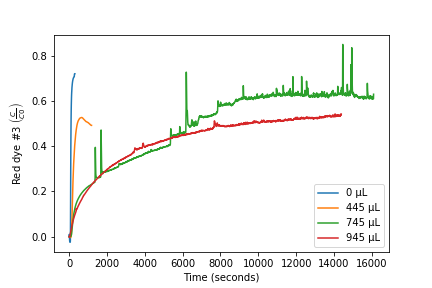
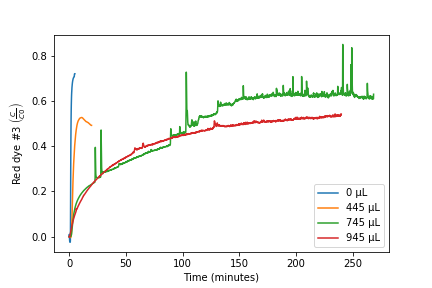
Converted time scale to minutes

Changed region(s): [[0.4815, 0.875, 0.9028, 1.0], [0.2106, 0.875, 0.3611, 0.9375], [0.3912, 0.875, 0.4514, 0.9375]]

diff --git a/Final_Project/Final_Project.md b/Final_Project/Final_Project.md
@@ -17,8 +17,12 @@ A schematic of the experiment can be seen in the figure below.
 2. The sand, coagulant and 100mL of water was added to a beaker for mixing.  
 3. While mixing, pH was monitored.  
 4. A basic solution of 0.5M NaOH was added until a pH of at least 6 was reached (Source: Water Treatment Coag). This was a necessary step because coagulant is largely ineffective in acidic conditions, and the aluminum in coagulant is makes the mixture acidic.  
-5. A small volume of the liquid in the mixture.
-After a few failed attempts at different flow rates, 1.25 mL/s was determined to work for both red dye #40 and red dye #3 enough to yield useful results. Both dyes were run through a sand-only column to obtain a baseline for the experiment. After, the team began testing coagulant. We started with 445 μL, which is equivalent to 22 moles of Aluminum per meter cubed. This concentration was suggested as ideal in “Enhanced Particle Capture through Aluminum Hydroxide Addition to Pores in Sand Media”. We then increased the volumes used to obtain data for comparisons. As you can see, we used both dyes for all volumes except the 1500 microliters of coagulant. This is because we quickly realized that red dye #3 was removed far more effectively by sand and coagulant than red dye #40 was. Where the red dye #40 experiments took minutes or less, the red dye #3 experiments took a few hours. Thus, we figured that the last experiment would not be worth the time.
+5. A small volume of the liquid in the mixture and then the sand portion of the mixture was added to the column. This "wet method" was employed so that there would not be any air pockets in the column.
+6. The initial amount of coagulant used was 445 μL, which is equivalent to 22 moles of Aluminum per meter cubed. This concentration was suggested as ideal in “Enhanced Particle Capture through Aluminum Hydroxide Addition to Pores in Sand Media.”
+7. The amount of coagulant was varied afterward, as can be seen in Table 1. Both dyes were used for all volumes except the 1500 microliters of coagulant. This is because Red Dye #3 was removed far more effectively by sand and coagulant than Red Dye #40 was. Where the red dye #40 experiments took minutes or less, the Red Dye #3 experiments took a few hours. Using 1500 μL of coagulant with Red Dye #3 would have taken too much time, and the stock tank for the solution would have run out.
+8. After a few failed attempts at different flow rates, 1.25 mL/s was determined to work for both red dye #40 and red dye #3 enough to yield useful results.
+9. Both dyes were run through a sand-only column to obtain a baseline for the experiment.
+
 
 ## Results and Discussion  
 ![](https://github.com/klr227/EnvELab/blob/master/Final_Project/Pictures/Red_Dye_3.png)  
@@ -111,13 +115,14 @@ metadata1, filenames1, C_data1, time_data1 = adsorption_data(C_column,dirpath1)
 
 C_0_R3 = 70 * u.mg/u.L
 for i in range(np.size(filenames1)):
-  C_data1[i]=C_data1[i]-C_data1[i][0]
+  C_data1[i] = C_data1[i] - C_data1[i][0]
+  time_data1[i] = time_data1[i].to(u.min)
 mylegend1 = []
 for i in range(np.size(filenames1)):
   plt.plot(time_data1[i], C_data1[i]/C_0_R3,'-');
   mylegend1.append(str(metadata1['Coagulant added (uL)'][i]) + ' µL')
 
-plt.xlabel(r'Time (seconds)');
+plt.xlabel(r'Time (minutes)');
 plt.ylabel(r'Red dye #3 $\left ( \frac{C}{C0} \right )$');
 plt.legend(mylegend1);
 plt.savefig('Final_Project/Pictures/Red_Dye_3.png');
@@ -128,7 +133,8 @@ metadata2, filenames2, C_data2, time_data2 = adsorption_data(C_column,dirpath2)
 
 C_0_R40 = 100 * u.mg/u.L
 for i in range(np.size(filenames2)):
-  C_data2[i]=C_data2[i]-C_data2[i][0]
+  C_data2[i] = C_data2[i] - C_data2[i][0]
+  time_data2[i] = time_data2[i].to(u.min)
 mylegend2 = []
 for i in range(np.size(filenames2)):
   plt.plot(time_data2[i], C_data2[i]/C_0_R4,'-');
